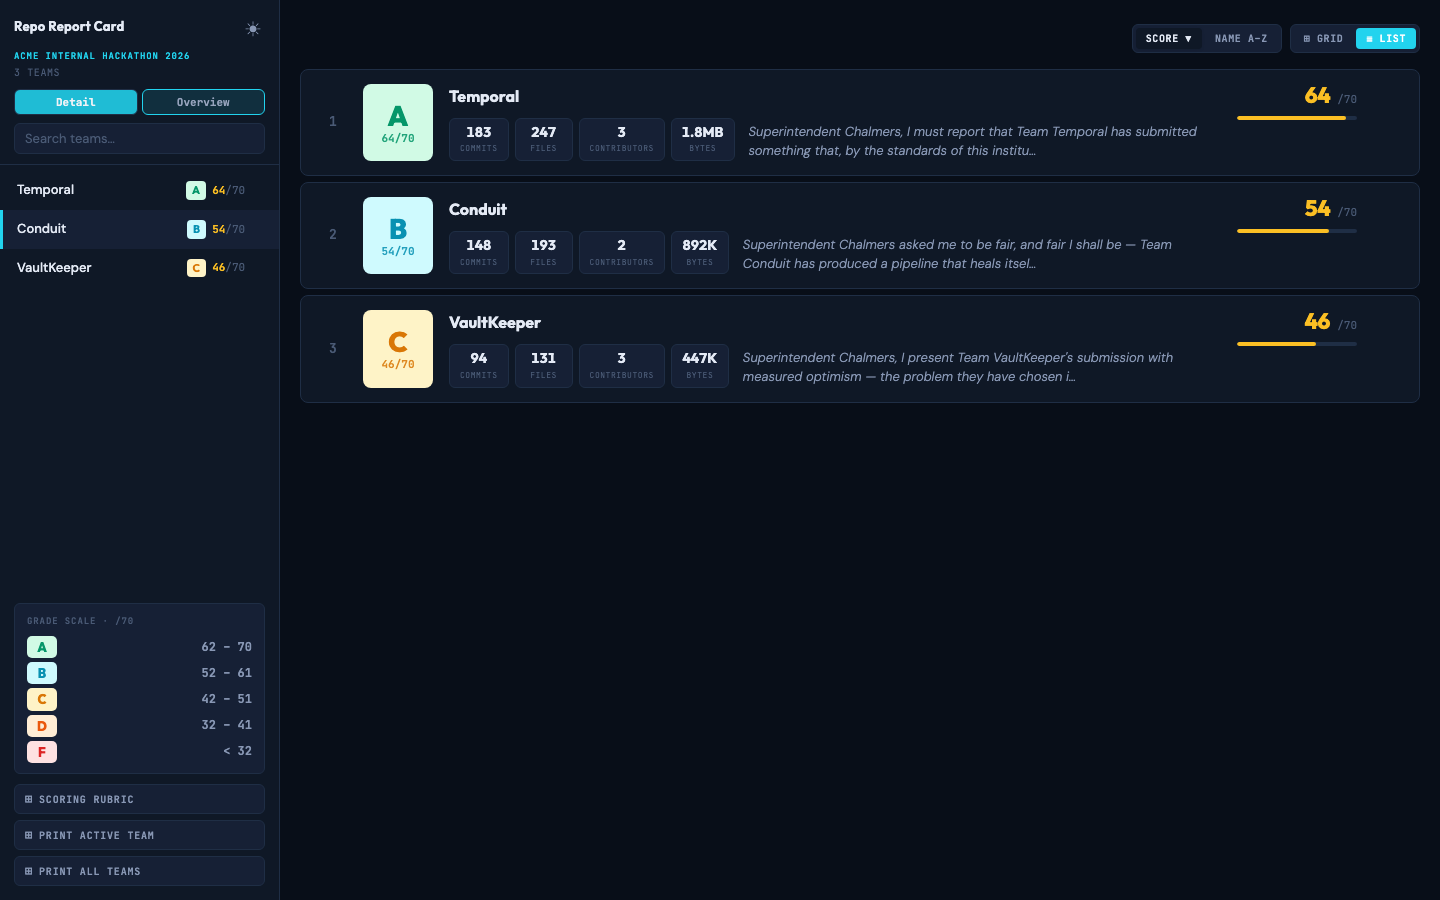
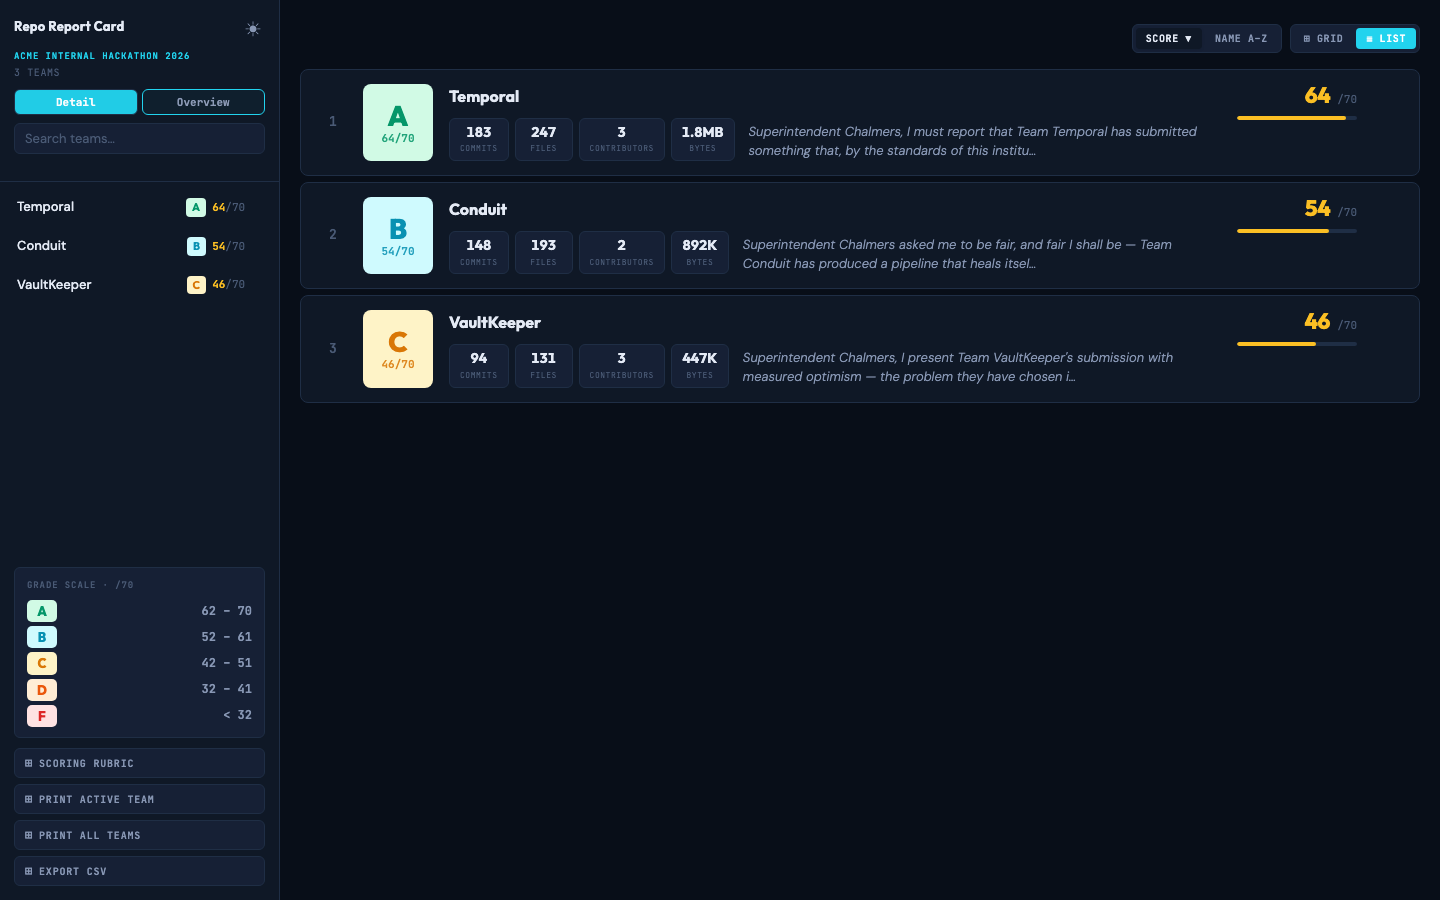
feat: mini radar in overview, styled tooltip, animation, search UX, permalink, CSV export
- Mini radar: 76×76 spider chart on each overview grid card showing
  dimension profile at a glance; Section.dimensions propagated from JSON
- Styled tooltip: .radar-tip HTML overlay replaces native SVG <title>
  on detail radar dots; JS positions it above each hovered vertex
- Radar animation: @keyframes radarIn scale 0.6→1 with spring easing on
  data polygon; fires on page load
- Search UX: ✕ clear button (shows when query non-empty) + match count
  "N of M" below search input; clearSearch() function
- Permalink: clicking a team updates ?team=<slug> in URL via replaceState;
  ?team= param auto-selects on page load
- CSV export: JSON data island (#rrc-scores) in head; sidebar button
  triggers exportCsv() which generates header + dimension columns + download
- Makefile: fix make screenshot overview/list shots to use direct DOM
  manipulation (btnOverview.click() didn't cross Playwright's isolated world)

diff --git a/src/render.ts b/src/render.ts
@@ -70,6 +70,7 @@ interface Section {
     tldr: string;
     stats: Record<string, string>;
     event: string;
+    dimensions?: Dimension[];
 }
 
 interface Args {
@@ -374,6 +375,11 @@ body {
 .badge.green { color: var(--max); background: var(--max-bg); border-color: transparent; }
 .badge.grey  { color: var(--fg-dim); }
 footer { border-top: 1px solid var(--border); padding-block-start: 16px; display: flex; justify-content: space-between; align-items: center; flex-wrap: wrap; gap: 8px; font-size: 16px; color: var(--fg-dim); font-family: var(--font-mono); }
+.radar-wrap { position: relative; display: inline-block; }
+.radar-tip { position: absolute; pointer-events: none; background: var(--surface); border: 1px solid var(--border); border-radius: 6px; padding: 5px 10px; font-family: var(--font-mono); font-size: 13px; color: var(--fg); white-space: nowrap; box-shadow: 0 4px 12px rgba(0,0,0,.18); opacity: 0; transition: opacity .1s; z-index: 10; transform: translate(-50%, -110%); }
+.radar-tip.show { opacity: 1; }
+@keyframes radarIn { from { opacity: 0; transform: scale(0.6); } to { opacity: 1; transform: scale(1); } }
+.radar-wrap svg polygon:last-of-type { transform-origin: center; animation: radarIn 0.5s cubic-bezier(0.34,1.56,0.64,1) both; }
 `;
 
 // ── Scorecard HTML renderer (from JSON) ───────────────────────────────────────
@@ -417,7 +423,7 @@ function radarSvg(dims: Dimension[]): string {
     }).join('');
 
     const dots = dims.map((d, i) =>
-        `<circle cx="${ptx(i, d.score)}" cy="${pty(i, d.score)}" r="4" fill="var(--accent)" stroke="var(--surface)" stroke-width="1.5"><title>${escHtml(d.name)}: ${d.score}/10</title></circle>`
+        `<circle cx="${ptx(i, d.score)}" cy="${pty(i, d.score)}" r="4" fill="var(--accent)" stroke="var(--surface)" stroke-width="1.5" data-dim="${escHtml(d.name)}" data-score="${d.score}" style="cursor:pointer"/>`
     ).join('');
 
     const scoreNums = dims.map((d, i) => {
@@ -430,7 +436,7 @@ function radarSvg(dims: Dimension[]): string {
         return `<text x="${nx}" y="${ny}" text-anchor="${anchor}" dominant-baseline="${base}" font-family="var(--font-head)" font-size="9.5" font-weight="700" fill="var(--accent)" opacity="0.9">${d.score}</text>`;
     }).join('');
 
-    return `<svg viewBox="0 0 220 220" width="200" height="200" role="img" aria-label="Dimension scores radar chart">
+    return `<div class="radar-wrap"><svg viewBox="0 0 220 220" width="200" height="200" role="img" aria-label="Dimension scores radar chart">
   <title>Dimension scores</title>
   ${rings}
   ${axes}
@@ -438,6 +444,40 @@ function radarSvg(dims: Dimension[]): string {
   ${dots}
   ${labels}
   ${scoreNums}
+</svg><div class="radar-tip" id="radarTip"></div></div>`;
+}
+
+function miniRadarSvg(dims: Dimension[]): string {
+    const n = dims.length;
+    if (!n) return '';
+    const cx = 45, cy = 45, r = 36;
+    const ang = (i: number) => -Math.PI / 2 + (2 * Math.PI * i / n);
+    const ptx = (i: number, v: number) => (cx + (v / 10) * r * Math.cos(ang(i))).toFixed(1);
+    const pty = (i: number, v: number) => (cy + (v / 10) * r * Math.sin(ang(i))).toFixed(1);
+
+    const rings = [5, 10].map(v => {
+        const rr = (v / 10) * r;
+        const pts = Array.from({length: n}, (_, i) =>
+            `${(cx + rr * Math.cos(ang(i))).toFixed(1)},${(cy + rr * Math.sin(ang(i))).toFixed(1)}`
+        ).join(' ');
+        return `<polygon points="${pts}" fill="none" stroke="var(--bar-track)" stroke-width="0.6" opacity="0.5"/>`;
+    }).join('');
+
+    const axes = Array.from({length: n}, (_, i) =>
+        `<line x1="${cx}" y1="${cy}" x2="${(cx + r * Math.cos(ang(i))).toFixed(1)}" y2="${(cy + r * Math.sin(ang(i))).toFixed(1)}" stroke="var(--bar-track)" stroke-width="0.5" opacity="0.3"/>`
+    ).join('');
+
+    const poly = dims.map((d, i) => `${ptx(i, d.score)},${pty(i, d.score)}`).join(' ');
+
+    const dots = dims.map((d, i) =>
+        `<circle cx="${ptx(i, d.score)}" cy="${pty(i, d.score)}" r="2.5" fill="var(--accent)" stroke="var(--surface)" stroke-width="1"><title>${escHtml(d.name)}: ${d.score}/10</title></circle>`
+    ).join('');
+
+    return `<svg viewBox="0 0 90 90" width="76" height="76" role="img" aria-label="Mini dimension radar">
+  ${rings}
+  ${axes}
+  <polygon points="${poly}" fill="var(--accent)" fill-opacity="0.15" stroke="var(--accent)" stroke-width="1.5" stroke-linejoin="round"/>
+  ${dots}
 </svg>`;
 }
 
@@ -551,6 +591,24 @@ ${quipBlock(data.closing_quip, pickImg(imgs))}
   <span>Scored ${escHtml(data.scored_at)} · ${data.files_sampled} files sampled of ${data.eligible_files} eligible</span>
 </footer>
 
+<script>
+(function() {
+  var tip = document.getElementById('radarTip');
+  if (!tip) return;
+  document.querySelectorAll('[data-dim]').forEach(function(dot) {
+    dot.addEventListener('mouseenter', function() {
+      tip.textContent = dot.dataset.dim + ': ' + dot.dataset.score + '/10';
+      var rect = dot.getBoundingClientRect();
+      var wrap = tip.parentElement;
+      var wRect = wrap.getBoundingClientRect();
+      tip.style.left = (rect.left - wRect.left + rect.width / 2) + 'px';
+      tip.style.top  = (rect.top  - wRect.top) + 'px';
+      tip.classList.add('show');
+    });
+    dot.addEventListener('mouseleave', function() { tip.classList.remove('show'); });
+  });
+})();
+</script>
 </body>
 </html>`;
 }
@@ -576,6 +634,7 @@ function fromJson(data: ScoreData, idx: number, imgs: string[]): Section {
         tldr:  data.opening_quip ?? '',
         stats,
         event: data.event ?? '',
+        dimensions: data.dimensions ?? [],
     };
 }
 
@@ -708,6 +767,7 @@ function buildCombinedHtml(sections: Section[], skinnerImgs: string[], rubric: s
             return `<div class="ov-stat"><div class="ov-stat-num">${escHtml(v)}</div><div class="ov-stat-lbl">${escHtml(k)}</div></div>`;
         }).join('');
         const tldr = s.tldr ? `<p class="ov-tldr">${escHtml(s.tldr.slice(0, 220))}${s.tldr.length > 220 ? '…' : ''}</p>` : '';
+        const miniRadar = s.dimensions?.length ? `<div class="ov-radar">${miniRadarSvg(s.dimensions)}</div>` : '';
         return `<div class="ov-card" data-href="#${s.slug}" data-name="${s.name.toLowerCase()}" data-score="${s.score}">
   <div class="ov-card-head">
     <span class="ov-name">${escHtml(s.name)}</span>
@@ -718,6 +778,7 @@ function buildCombinedHtml(sections: Section[], skinnerImgs: string[], rubric: s
   </div>
   <div class="ov-stats">${statsHtml}</div>
   ${tldr}
+  ${miniRadar}
 </div>`;
     }).join('\n');
 
@@ -757,6 +818,10 @@ function buildCombinedHtml(sections: Section[], skinnerImgs: string[], rubric: s
 <title>Repo Report Card — Hackathon Scorecards (${sections.length} teams)</title>
 <link rel="stylesheet" href="https://fonts.googleapis.com/css2?family=Outfit:wght@400;500;600;700;800&family=DM+Sans:ital,opsz,wght@0,9..40,300;0,9..40,400;0,9..40,500;1,9..40,300&family=JetBrains+Mono:wght@400;600&display=swap">
 ${FAVICON ? `<link rel="icon" href="${FAVICON}">` : ''}
+<script type="application/json" id="rrc-scores">${JSON.stringify(sections.map(s => ({
+    slug: s.slug, name: s.name, score: s.score, grade: s.grade,
+    event: s.event, stats: s.stats, dimensions: s.dimensions ?? [],
+})))}</script>
 <style>
 :root {
   --bg:        #F4F6FA;
@@ -872,6 +937,12 @@ body {
 .ov-stat-num { font-family: var(--font-head); font-size: 15px; font-weight: 800; color: var(--fg); font-variant-numeric: tabular-nums; line-height: 1.2; }
 .ov-stat-lbl { font-size: 9px; color: var(--fg-dim); text-transform: uppercase; letter-spacing: .06em; font-weight: 500; margin-block-start: 1px; }
 .ov-tldr { font-size: 12px; color: var(--fg-muted); font-style: italic; line-height: 1.5; margin: 0; }
+.ov-radar { margin-block-start: 10px; display: flex; justify-content: center; opacity: 0.85; }
+.search-wrap { position: relative; display: flex; align-items: center; margin-block-start: 6px; }
+.search-wrap .search { padding-inline-end: 28px; }
+.search-clear { position: absolute; right: 6px; background: none; border: none; font-size: 11px; color: var(--fg-dim); cursor: pointer; padding: 0 2px; line-height: 1; }
+.search-clear:hover { color: var(--fg); }
+.search-count { font-family: var(--font-mono); font-size: 10px; color: var(--fg-dim); text-align: right; margin-block-start: 3px; min-height: 14px; }
 .ov-list { display: flex; flex-direction: column; gap: 6px; }
 .ov-row { display: grid; grid-template-columns: 28px 70px 1fr 120px 28px; align-items: stretch; gap: 16px; background: var(--surface); border: 1px solid var(--border); border-radius: 8px; padding: 14px 18px; color: inherit; cursor: pointer; transition: border-color .15s, box-shadow .15s; }
 .ov-row:hover { border-color: var(--accent); box-shadow: 0 2px 8px rgba(8,145,178,.12); }
@@ -948,7 +1019,11 @@ body {
       <button class="view-btn active" id="btnDetail" onclick="setView('detail')">Detail</button>
       <button class="view-btn" id="btnOverview" onclick="setView('overview')">Overview</button>
     </div>
-    <input class="search" type="search" placeholder="Search teams…" aria-label="Search teams">
+    <div class="search-wrap">
+      <input class="search" type="search" placeholder="Search teams…" aria-label="Search teams">
+      <button class="search-clear" id="searchClear" onclick="clearSearch()" title="Clear search" style="display:none">✕</button>
+    </div>
+    <div class="search-count" id="searchCount"></div>
   </div>
   <nav class="team-list" id="teamList">
 ${sidebarItems}
@@ -966,7 +1041,8 @@ ${sidebarItems}
   </div>
   <button class="rubric-btn" onclick="document.getElementById('rubricOverlay').classList.add('open')">Scoring Rubric</button>
   <button class="rubric-btn" onclick="printActive()">Print Active Team</button>
-  <button class="rubric-btn" onclick="printAll()" style="margin-block-end:14px">Print All Teams</button>
+  <button class="rubric-btn" onclick="printAll()">Print All Teams</button>
+  <button class="rubric-btn" onclick="exportCsv()" style="margin-block-end:14px">Export CSV</button>
 </aside>
 
 <div class="rubric-overlay" id="rubricOverlay" onclick="if(event.target===this)this.classList.remove('open')">
@@ -1063,6 +1139,14 @@ function applySearch(raw) {
     card.style.display = match ? '' : 'none';
   });
   if (noMatch) noMatch.style.display = shown === 0 ? 'block' : 'none';
+  var clearBtn = document.getElementById('searchClear');
+  if (clearBtn) clearBtn.style.display = q ? '' : 'none';
+  var countEl = document.getElementById('searchCount');
+  if (countEl) countEl.textContent = q ? shown + ' of ' + items.length + ' teams' : '';
+}
+function clearSearch() {
+  if (search) { search.value = ''; search.focus(); }
+  applySearch('');
 }
 search?.addEventListener('input', () => applySearch(search.value));
 
@@ -1176,6 +1260,44 @@ function sortOverview(mode) {
   reorder(list, '.ov-row');
   list.querySelectorAll('.ov-rank').forEach(function(el, i) { el.textContent = String(i + 1); });
 }
+
+function exportCsv() {
+  var el = document.getElementById('rrc-scores');
+  if (!el) return;
+  var data;
+  try { data = JSON.parse(el.textContent); } catch(e) { return; }
+  var dimNames = (data[0]?.dimensions || []).map(function(d) { return d.name; });
+  var header = ['Rank','Team','Score','Grade','Commits','Files','Contributors','Bytes'].concat(dimNames);
+  var rows = data.slice().sort(function(a, b) { return b.score - a.score; }).map(function(t, i) {
+    var dimScores = dimNames.map(function(n) { var d = (t.dimensions || []).find(function(x) { return x.name === n; }); return d ? d.score : ''; });
+    return [i+1, t.name, t.score, t.grade, t.stats?.commits||'', t.stats?.files||'', t.stats?.contributors||'', t.stats?.bytes||''].concat(dimScores);
+  });
+  var csv = [header].concat(rows).map(function(r) {
+    return r.map(function(v) { var s = String(v); return s.includes(',') || s.includes('"') ? '"' + s.replace(/"/g,'""') + '"' : s; }).join(',');
+  }).join('\r\n');
+  var a = document.createElement('a');
+  a.href = URL.createObjectURL(new Blob([csv], {type:'text/csv'}));
+  a.download = 'repo-report-card.csv';
+  a.click();
+}
+
+// Permalink: load ?team= on page load, update URL on team click
+(function() {
+  var params = new URLSearchParams(window.location.search);
+  var teamParam = params.get('team');
+  if (teamParam) {
+    var target = document.getElementById(teamParam);
+    if (target) { setView('detail'); setTimeout(function() { target.scrollIntoView({ behavior: 'smooth' }); }, 100); }
+  }
+})();
+document.querySelectorAll('.team-item').forEach(function(a) {
+  a.addEventListener('click', function() {
+    var href = a.getAttribute('href');
+    if (href && href.startsWith('#')) {
+      try { history.replaceState(null, '', '?team=' + href.slice(1) + window.location.hash); } catch(e) {}
+    }
+  });
+});
 
 document.addEventListener('keydown', function(e) {
   if (e.target.closest('input,textarea,[contenteditable]')) return;
